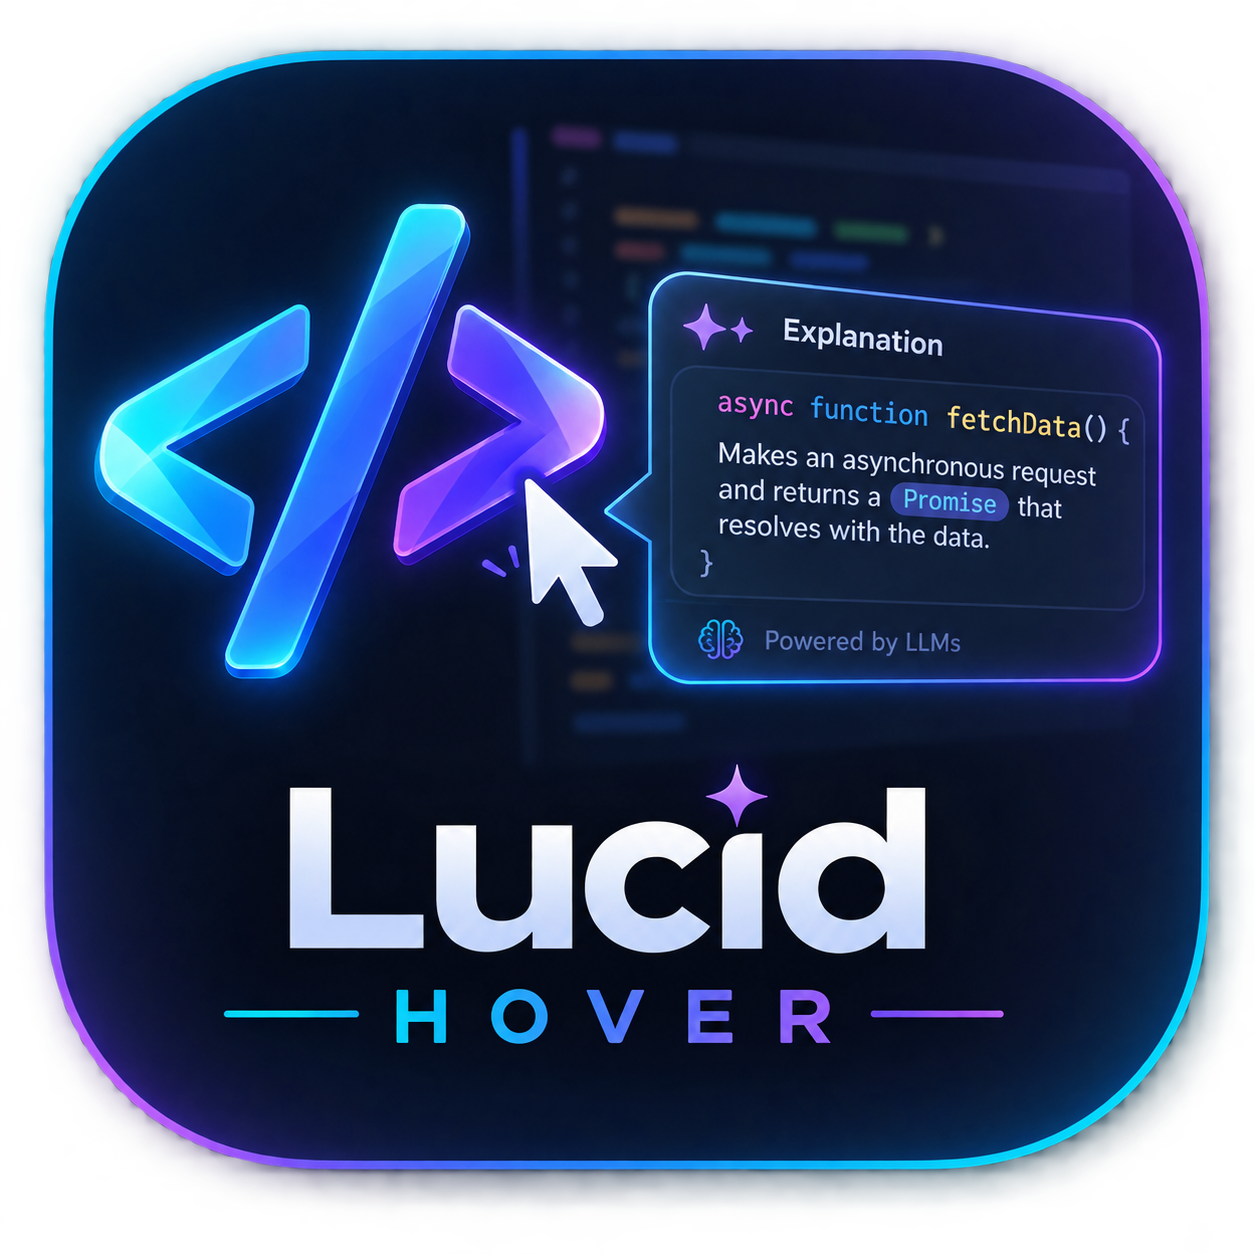
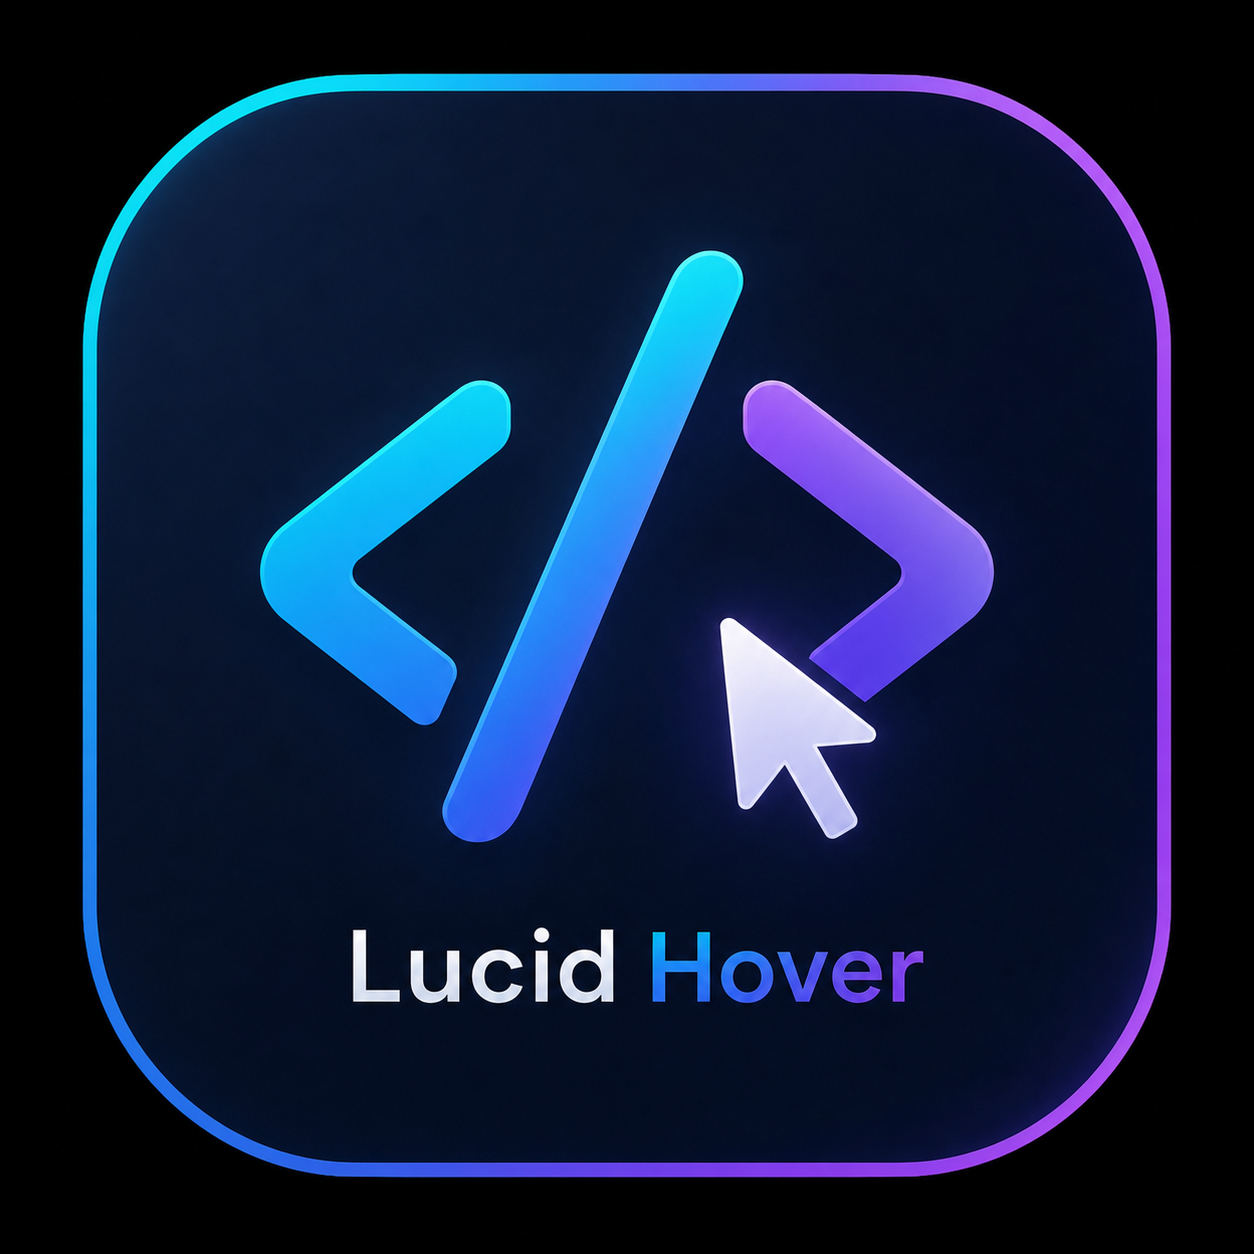
Session 74: execute Marketplace publish prep
Closes session 63's carried-forward manual-checklist gap. Reconfirms the
full baseline green, fixes a real vsce packaging leak (an untracked
generated-image.png, adopted as the new icon per user choice), folds
sessions 64-72's user-facing changes into CHANGELOG/README, runs a real
install/uninstall smoke test against the user's profile and real Ollama,
and hands off an exact manual checklist for the remaining account/PAT/
publish steps only the user can perform.

diff --git a/CLAUDE.md b/CLAUDE.md
@@ -209,6 +209,7 @@ value, not a placeholder to be renamed later.
 | 71 | Collision-frequency measurement and `BACKGROUND_INDEX_CONCURRENCY` revert — closed session 70's own carried-forward "collision frequency, not severity" gap with a real, continuous 241s run of the actual shipped worker-pool schedule (2 workers, 1s delay, real Ollama, real pokerogue functions from `common.ts`), measuring time-weighted busy-state fractions directly rather than assuming worker independence: both workers simultaneously busy 75.7% of wall-clock time, one busy 22.5%, idle only 1.9% — by the arrival-sees-time-average argument (any interactive-request cadence independent of the background schedule sees these same fractions), this means the large majority of real interactive requests landing while a pass is running hit session 70's own severe (+2.29s, over the <1s bar) state, not its mild (+0.6s) one; a candidate `DELAY_BETWEEN_GENERATIONS_MS=3000` was also live-measured as a possible fix instead, found real but weak (severe-state probability 75.7%→60.4%, active window ~25% longer, throughput down proportionally) and not adopted; code-confirmed the active window is a real one-time ~12.6-measured-minute stretch per trusted-workspace-open (`backgroundIndexManager?.start()`'s single call site, `extension.ts:140`, never auto-re-triggered), not an ongoing tax, but one that structurally overlaps a user's first exploration of a workspace — plausibly the most hover-heavy stretch of a session, not a rare corner case. Put to the user via `AskUserQuestion` with both today's frequency numbers and session 70's severity numbers together, per that session's own explicit reasoning for not deciding unilaterally; user chose to revert `BACKGROUND_INDEX_CONCURRENCY` from `2` back to `1`, implemented with a rewritten doc comment citing this session's measurement (`DELAY_BETWEEN_GENERATIONS_MS` left at 1000ms — the delay-increase alternative wasn't adopted). `code-reviewer` (scoped to the exact 1-file diff) found zero violations, independently confirming the worker-pool machinery is untouched and correctly degenerates to single-worker behavior at `concurrency=1`, no stale `2` references anywhere else in the codebase, no comment contradictions, and no Core Rule 11 concerns. Full suite green (65 unit, unchanged + 90 integration, unchanged — no test asserts the constant's numeric value; pytest not re-run, no sidecar files touched, session 70 already confirmed 152/152 same-day) | fix | Core | complete | [session-71-collision-frequency-and-concurrency-revert.md](.claude/sessions/session-71-collision-frequency-and-concurrency-revert.md) |
 | 72 | Background-indexing progress UX QOL bundle — closed three small items flagged across sessions 64/65/66's own handoffs and reconfirmed still-open in a session-69 survey, each preceded by an `AskUserQuestion` design decision per the session's own no-guessing instruction: (1) `ProgressSnapshot` gained `currentFunctionName` (single most-recently-claimed function, not a per-worker list — user's explicit choice given `BACKGROUND_INDEX_CONCURRENCY` is currently 1), rendered in the tooltip as a "Last claimed: <file>: <name>" line, set the moment a worker claims an entry rather than only once generation starts; (2) `prioritizeFileIndexingCommand.ts`'s existing generate loop wrapped in `vscode.window.withProgress({location: ProgressLocation.Window, ...})` (status-bar-area, matching `BackgroundIndexManager`'s own pattern over a Notification toast — user's choice), reporting an advancing "i/total" message per target; (3) a new `lastCoverage` snapshot, set only on a pass's full natural completion (`status === 'done'`, never paused/canceled), shown in the idle-phase status bar as "$(check) LucidHover: N/M explained" against the *configured* topN/fullRepo scope (user's explicit choice over the whole repo unconditionally) instead of idle always just hiding with no text change. Folding coverage into the idle status bar broke 2 pre-existing tests that relied on idle leaving stale 'running'-phase text/tooltip untouched — fixed (not skipped) with a new `waitForStatusBarText()` polling helper that deterministically catches the real ~1s `DELAY_BETWEEN_GENERATIONS_MS` window every pass already has between its last item completing and the phase flipping to idle. `code-reviewer` (scoped to the exact 4-file diff) found zero Core Rule 4/8/9/11 violations, independently confirming `currentFunctionName`'s set/clear correctness across pause/resume, `lastCoverage`'s done-only gate, the `waitForStatusBarText` timing reasoning against `run()`'s actual worker-loop code, and that all 3 new tests are real regression tests, not tautological; found and this session fixed one cosmetic doc-comment inconsistency (a stale "Now processing" reference to wording rejected earlier in the same diff in favor of "Last claimed"). No sidecar/cache files touched. Full suite green (65 unit, unchanged + 93 integration, up from 90; pytest not re-run, no sidecar files touched, session 71 already confirmed 152/152 same-day) | fix | Core | complete | [session-72-progress-ux-qol-bundle.md](.claude/sessions/session-72-progress-ux-qol-bundle.md) |
 | 73 | Manual smoke test of failed-generation-count UX — closed session 65's own carried-forward gap (the `, N failed` breakdown/toast wording had only unit-level coverage via a stubbed rejection, never a real generation failure, since real failures aren't reliably reproducible against a real, healthy Ollama); forced a real failure by pointing a temporary `fixtures/javascript/.vscode/settings.json`'s `lucidHover.modelId` at a nonexistent model name (chosen over killing Ollama itself, after confirming via `sidecar/generation/ollama_client.py` that an unknown-model request fails fast via a real HTTP 404, not a 120s timeout) and adding 6 temporary guaranteed-cache-miss scratch functions to `fixtures/javascript/repomap/utils.js`, both reverted before session end (confirmed clean via `git status`); all 6 prescribed checks (mirroring sessions 40/50/51/59/60's numbered-step-with-Expected format) passed against a real Extension Development Host, real sidecar, and real Ollama — the tooltip breakdown, completion toast, and output-channel log line all correctly showed the real failure count with the real "model not found" error message intact end-to-end; one real, understood, non-bug finding surfaced mid-session and is documented in the artifact — `lucidHover.modelId` is part of the cache key for every function (Core Rule 5), so the bogus model caused all 32 of the workspace's functions to fail, not just the 6 scratch ones, which initially blocked the "nothing else misbehaves" sanity check until the setting was removed and re-tested (passed on retry, with no data loss confirmed against session 39's same-tuple-only eviction rule) | audit | Core | complete | [session-73-failed-count-manual-smoke-test.md](.claude/sessions/session-73-failed-count-manual-smoke-test.md) |
+| 74 | Marketplace publish execution — closed session 63's carried-forward "left as an exact manual checklist for the user" gap: reconfirmed the full baseline green (tsc clean, 65 unit, 93 integration, 152 pytest, all up from session 63 reflecting sessions 64-72's own merged work), then a fresh `vsce package` run caught a real leak before anything else — an untracked, unreferenced 1.23 MB `media/generated-image.png` (same dimensions as the existing icon, dated the same day as session 57's icon work) was shipping in the `.vsix`; put its disposition to the user via `AskUserQuestion` rather than guessed, who chose a 4th option beyond the three offered — adopt it as the updated logo, replacing `media/icon.png`'s content outright — bringing the package to **164 files / 9.96 MB** (vs. session 64's 162/10.3 MB baseline, the 2-file growth explained by sessions 66-68's new source, the smaller total size by the new icon being smaller than the old one); folded sessions 64-72's user-facing additions (cluster summary, expanded progress UX, topN background-index scope) into CHANGELOG.md's existing `0.1.0` entry and README.md's feature/command/setting tables; version put to the user via `AskUserQuestion` (no bump / 0.2.0 / 1.0.0), user chose to stay at `0.1.0`; real `code --install-extension`/`--uninstall-extension` round trip into the user's actual profile (not a dev host) against `fixtures/javascript/repomap` with real Ollama, user-driven GUI pass covering the status-bar progress tooltip and — the one genuinely new-to-any-smoke-test surface — Show/Synthesize Cluster Summary (session 68, never manually verified before), all 5 steps passed; mid-smoke-test the user reported an "extension host crashed" notification, traced through VS Code's own main/exthost/renderer logs to a real renderer-process OOM with independent evidence of system-wide resource pressure in the same window (11 total VS Code windows open that session, an unrelated `UtilityProcessWorker` crash and `ERR_INSUFFICIENT_RESOURCES` shortly before) and zero LucidHover-attributable errors in the extension host's own clean-exit log — documented as investigated-not-attributed rather than silently dropped; publisher id `"lucidhover"` confirmed kept (not changed) via `AskUserQuestion`; closes with an exact manual checklist (publisher registration, PAT generation, `vsce publish`) for the account/credential steps that remain genuinely out of scope for Claude to perform | gate | Core | complete | [session-74-marketplace-publish-execution.md](.claude/sessions/session-74-marketplace-publish-execution.md) |
 
 ## File ownership (avoid overlapping edits across parallel work)
 

diff --git a/README.md b/README.md
@@ -35,6 +35,9 @@ back to a one-off synchronous generation on hover, so nothing hovering ever show
 - **Blast radius** — see everything that transitively depends on a function before you change it.
 - **Execution trace** — follow a function's primary call chain forward, with inline branches for
   alternate paths.
+- **Cluster summary** — a synthesized purpose paragraph over a function and its transitive callers,
+  built from already-cached explanations (an explicit "Synthesize summary" action, never generated
+  automatically).
 - **CodeLens role badges + gutter icons** — see each function's role at a glance without hovering.
 - **Show Most Important Functions** — a quick pick of the codebase's highest-importance functions,
   for orienting yourself in an unfamiliar repo.
@@ -42,8 +45,10 @@ back to a one-off synchronous generation on hover, so nothing hovering ever show
 - **Prioritize Indexing for This File** — jump a file's functions to the front of the background
   indexing queue.
 - **Pause/Resume Background Indexing** — a status bar toggle for when you want indexing to yield
-  CPU/Ollama capacity to something else, showing a live progress count, per-function breakdown, and
-  an estimated time remaining in the tooltip.
+  CPU/Ollama capacity to something else, showing a live progress count (including failed attempts),
+  the function currently being processed, an estimated time remaining, and repo-wide coverage once
+  a pass finishes, all in the tooltip. Only the most important functions are indexed up front by
+  default — everything else is generated the first time you hover it.
 - **Summary docs** — generate per-file Markdown summaries from already-cached explanations.
 - **Automatic staleness tracking** — edits and cross-file changes flag affected explanations as
   stale so you know when what you're reading no longer matches the code.
@@ -60,6 +65,8 @@ All commands are available from the Command Palette (`Ctrl+Shift+P` / `Cmd+Shift
 | LucidHover: Prioritize Indexing for This File | Jumps this file's uncached functions to the front of the queue (also in the editor context menu) |
 | LucidHover: Show Blast Radius for Function Under Cursor | Shows everything that depends on the current function |
 | LucidHover: Trace Execution Path from Function Under Cursor | Follows the current function's downstream call chain |
+| LucidHover: Show Cluster Summary for Function Under Cursor | Shows a synthesized purpose summary for the function and its transitive callers |
+| LucidHover: Synthesize Cluster Summary for Function Under Cursor | Generates (and caches) the cluster summary above from cached explanations |
 | LucidHover: Show Most Important Functions | Quick pick of the codebase's highest-ranked functions |
 | LucidHover: Search Explanations | Fuzzy-search cached explanations |
 | LucidHover: Generate Summary Docs | Writes per-file Markdown summaries to `docs/wiki/` |
@@ -75,6 +82,8 @@ All commands are available from the Command Palette (`Ctrl+Shift+P` / `Cmd+Shift
 | `lucidHover.ollamaEndpoint` | `http://localhost:11434` | Local Ollama endpoint (loopback only — non-local hosts are rejected) |
 | `lucidHover.backgroundFlushIntervalSeconds` | `25` | How often edited-but-unsaved functions are regenerated in the background |
 | `lucidHover.autoEvictSupersededCache` | `true` | Automatically delete a function's old cache row when it's regenerated |
+| `lucidHover.backgroundIndexScope` | `topN` | `topN` pre-generates only the most important functions on startup; `fullRepo` indexes everything up front |
+| `lucidHover.backgroundIndexTopN` | `200` | How many top-importance functions the startup pass covers when scope is `topN` |
 
 ## Privacy
 

diff --git a/CHANGELOG.md b/CHANGELOG.md
@@ -17,9 +17,18 @@ First public-readiness snapshot. Highlights:
 - CodeLens role badges and gutter icons.
 - Blast radius and execution trace graph views, sharing the same card-based visual design as the
   explanation panel, with inline branch expansion on execution traces.
+- Cluster summary: a synthesized purpose paragraph over a function and its transitive callers,
+  built only from already-cached explanations and generated only on an explicit "Synthesize
+  summary" action, never automatically.
 - "Show Most Important Functions" and "Search Explanations" quick pick commands.
 - "Prioritize Indexing for This File" and pausable/resumable background indexing, with a live
-  progress count, per-function breakdown, and time-remaining estimate in the status bar.
+  progress count (including failed attempts), the function currently being processed, a
+  time-remaining estimate, and repo-wide coverage against the configured scope once a pass
+  completes, all in the status bar.
+- Startup background indexing defaults to the repo's most important functions
+  (`lucidHover.backgroundIndexScope` / `lucidHover.backgroundIndexTopN`), with full-repo indexing
+  available as an explicit opt-in — functions outside the scope are still generated the first time
+  they're hovered.
 - Full layered change-detection model: dirty-tracking, debounced save, periodic flush, git hooks,
   manual refresh.
 - Local embeddings + retrieval (Ollama + LanceDB) folded into generation context.
